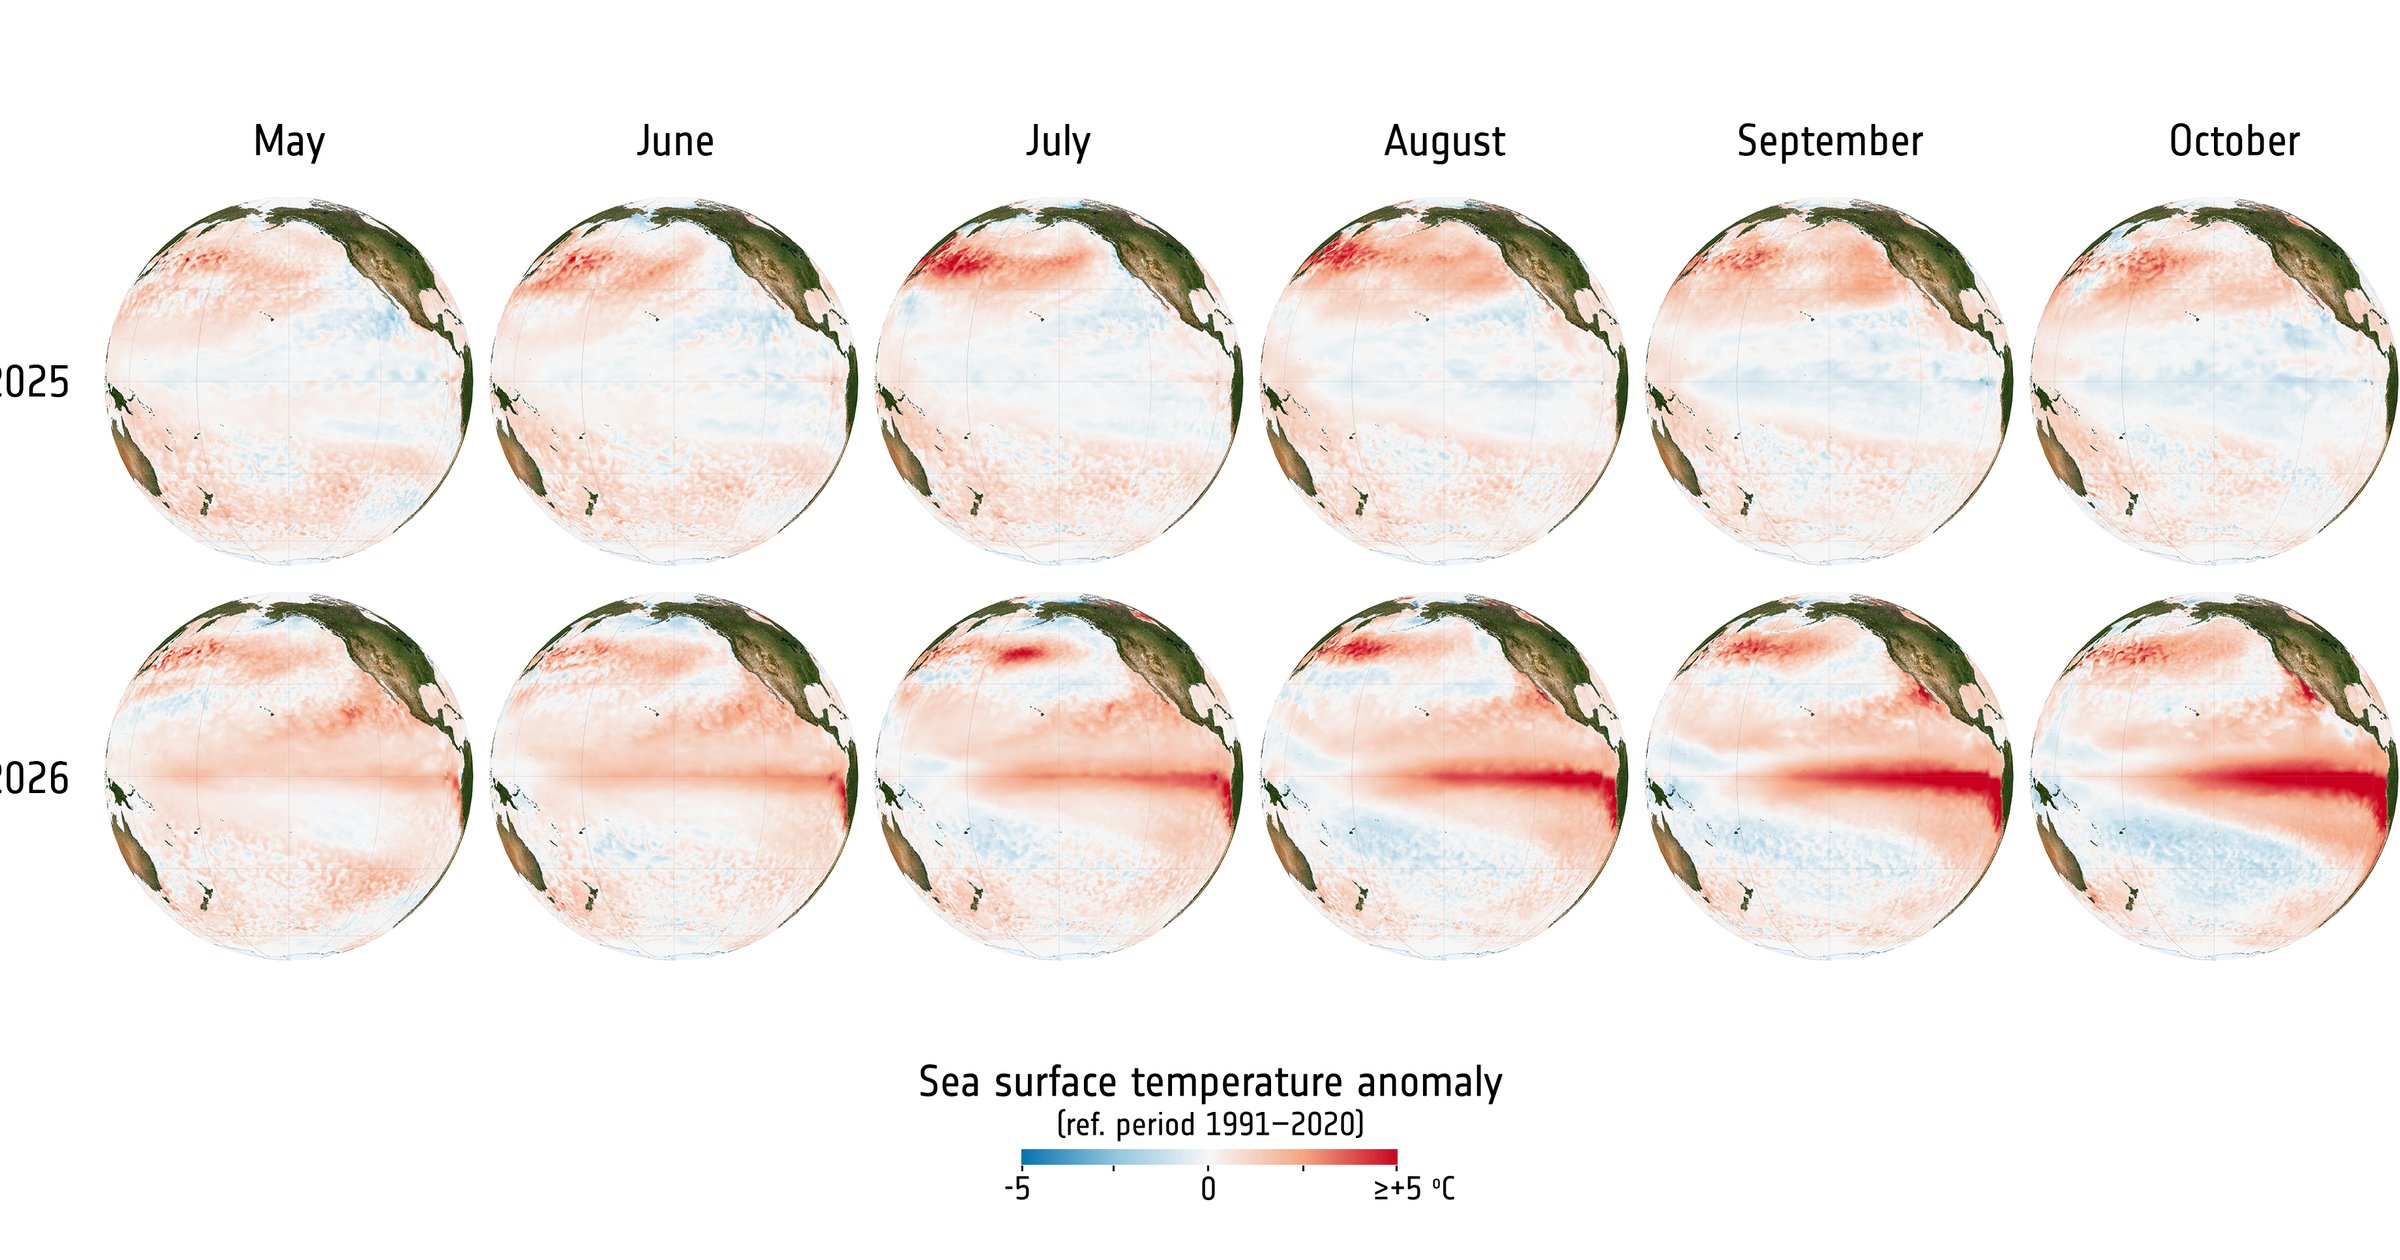
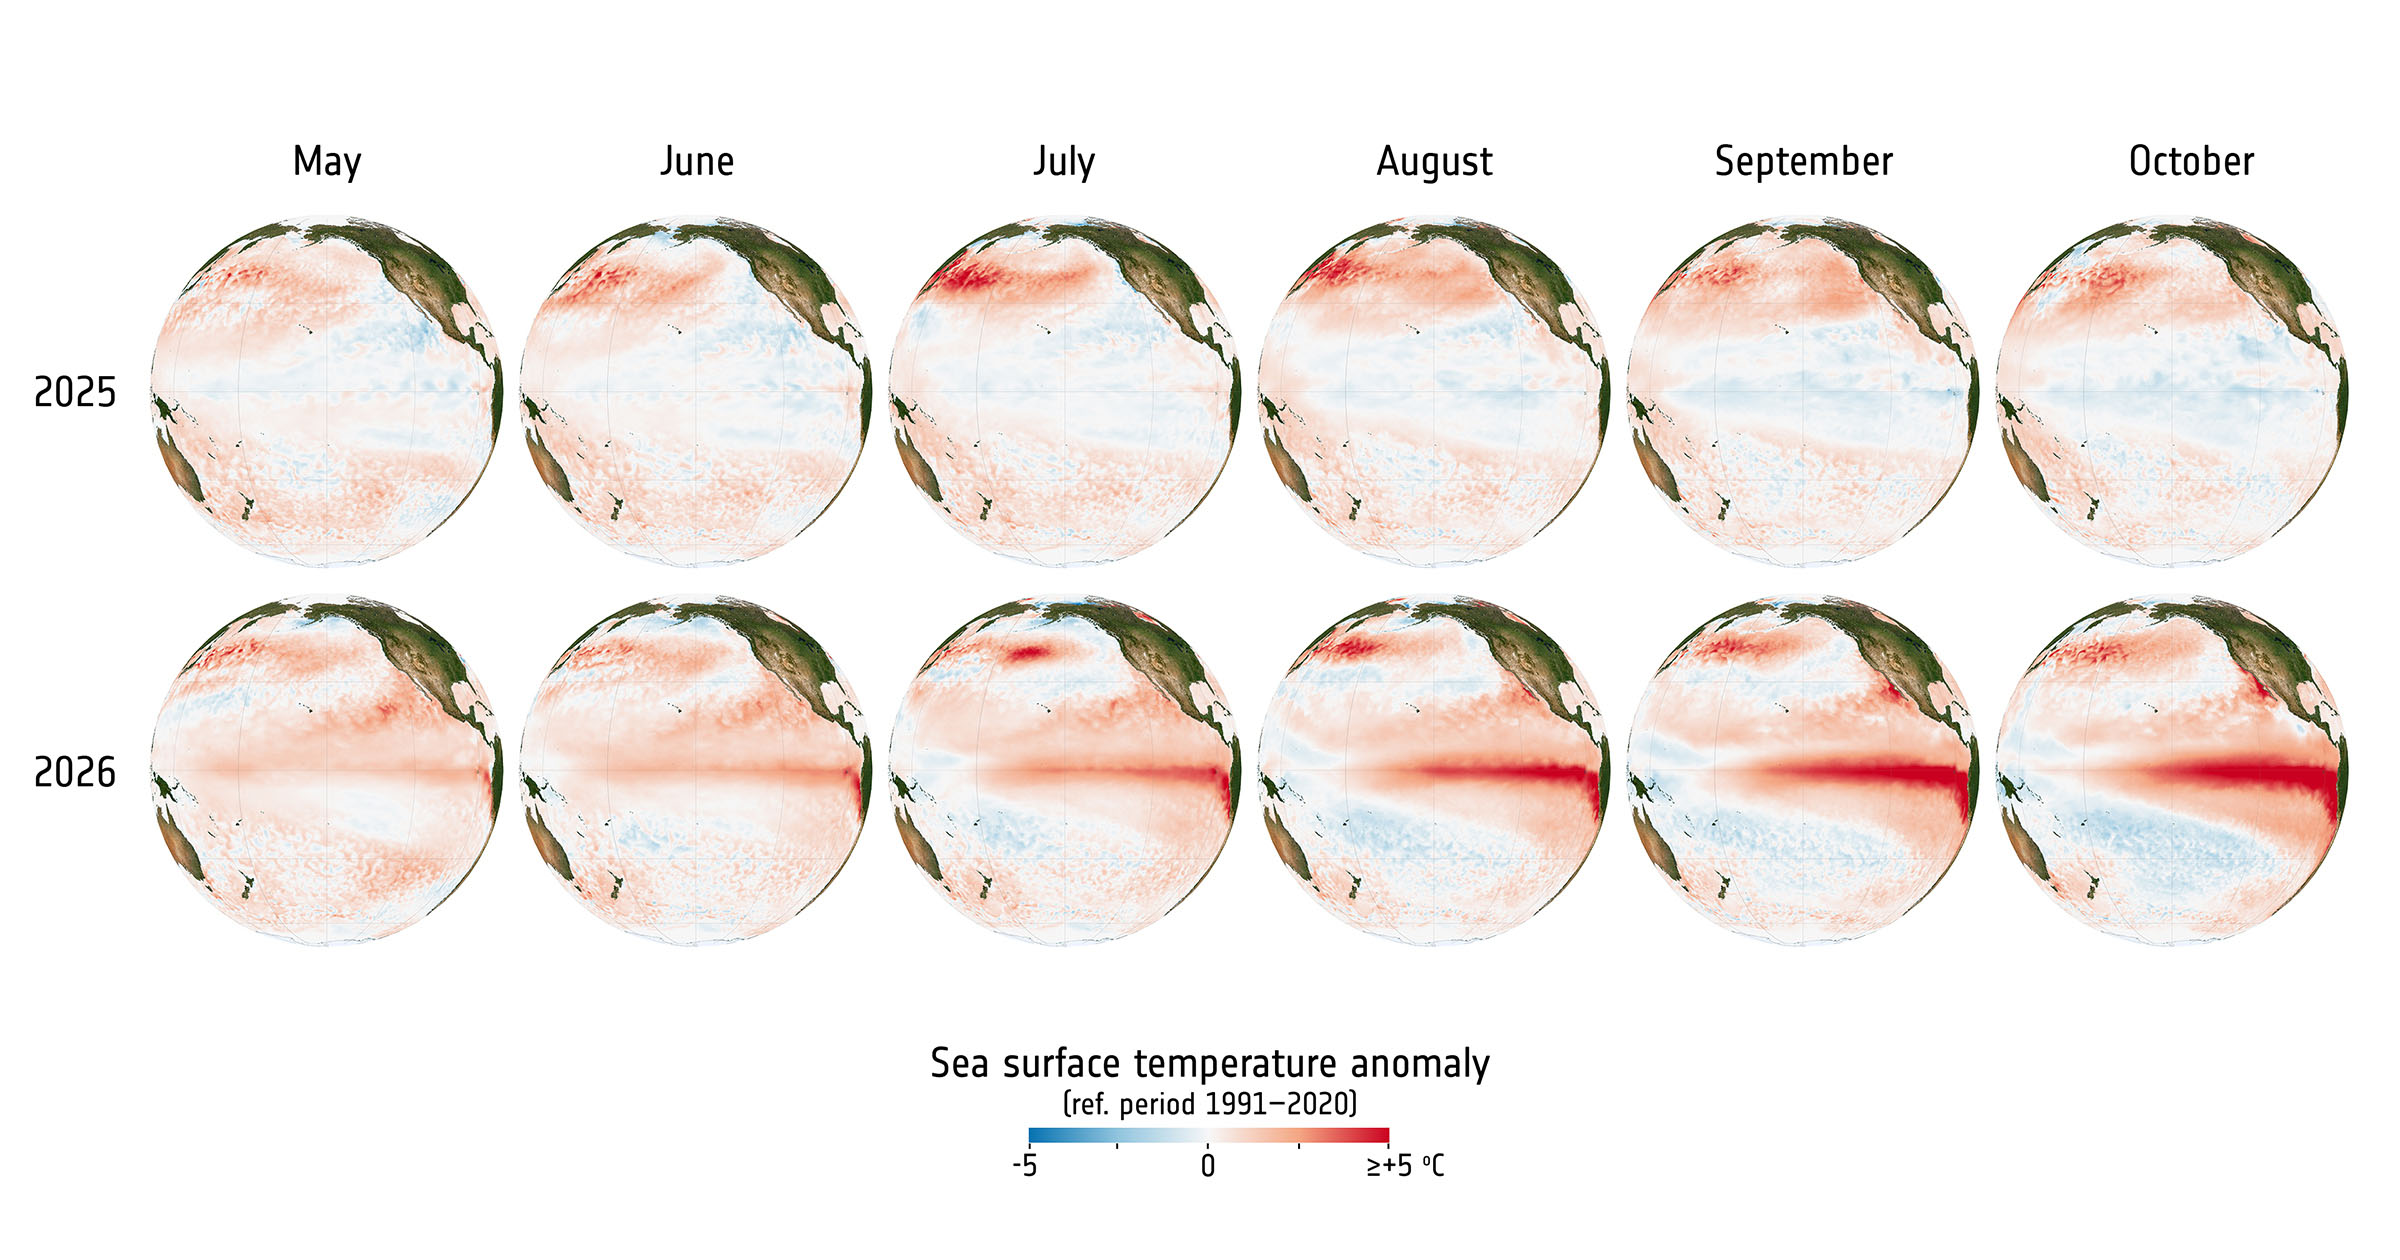
corretion to the El Nino post

Changed region(s): [[0.0, 0.0929, 1.0, 0.7738], [0.375, 0.8357, 0.625, 0.9595]]

diff --git a/_posts/2026-11-11-el-nino-2026.md b/_posts/2026-11-11-el-nino-2026.md
@@ -3,7 +3,7 @@ title: "El Niño 2026"
 description: "Sea surface temperature anomalies in the Equatorial Pacific."
 date: 2026-11-11 21:43:50 +0100
 kind: snapshot
-categories: ["MULTIMISSION"]
+categories: ["Multi-mission"]
 tags: ["elnino", "sst", "pacific", "climate"]
 image:
   path: /assets/img/el-nino-2026/el-nino-2026_banner.jpg
@@ -13,7 +13,9 @@ location: { name: "Equatorial Pacific", lat: 0.0, lon: -140.0 }
 credit: "ESA (data sources: CMEMS/ESA SST CCI)"
 ---
 
-Sea surface temperature anomalies in the Equatorial Pacific. Daily images between 01 May and 31 October 2026.
+This animation shows the Pacific Ocean daily surface temperature anomaly during May to October 2026, compared to a reference period from 1991 to 2020.
+
+El Niño is caused by the weakening of trade winds across the Pacific Ocean. The winds usually blow from east to west, pushing warm surface water westwards. The weakened winds mean that warm surface water accumulates in the eastern Pacific Ocean. Sea surface temperature anomalies in the Equatorial Pacific. Daily images between 01 May and 31 October 2026.
 
 {% include video.html
    src="/assets/img/el-nino-2026/el-nino-2026.mp4"
